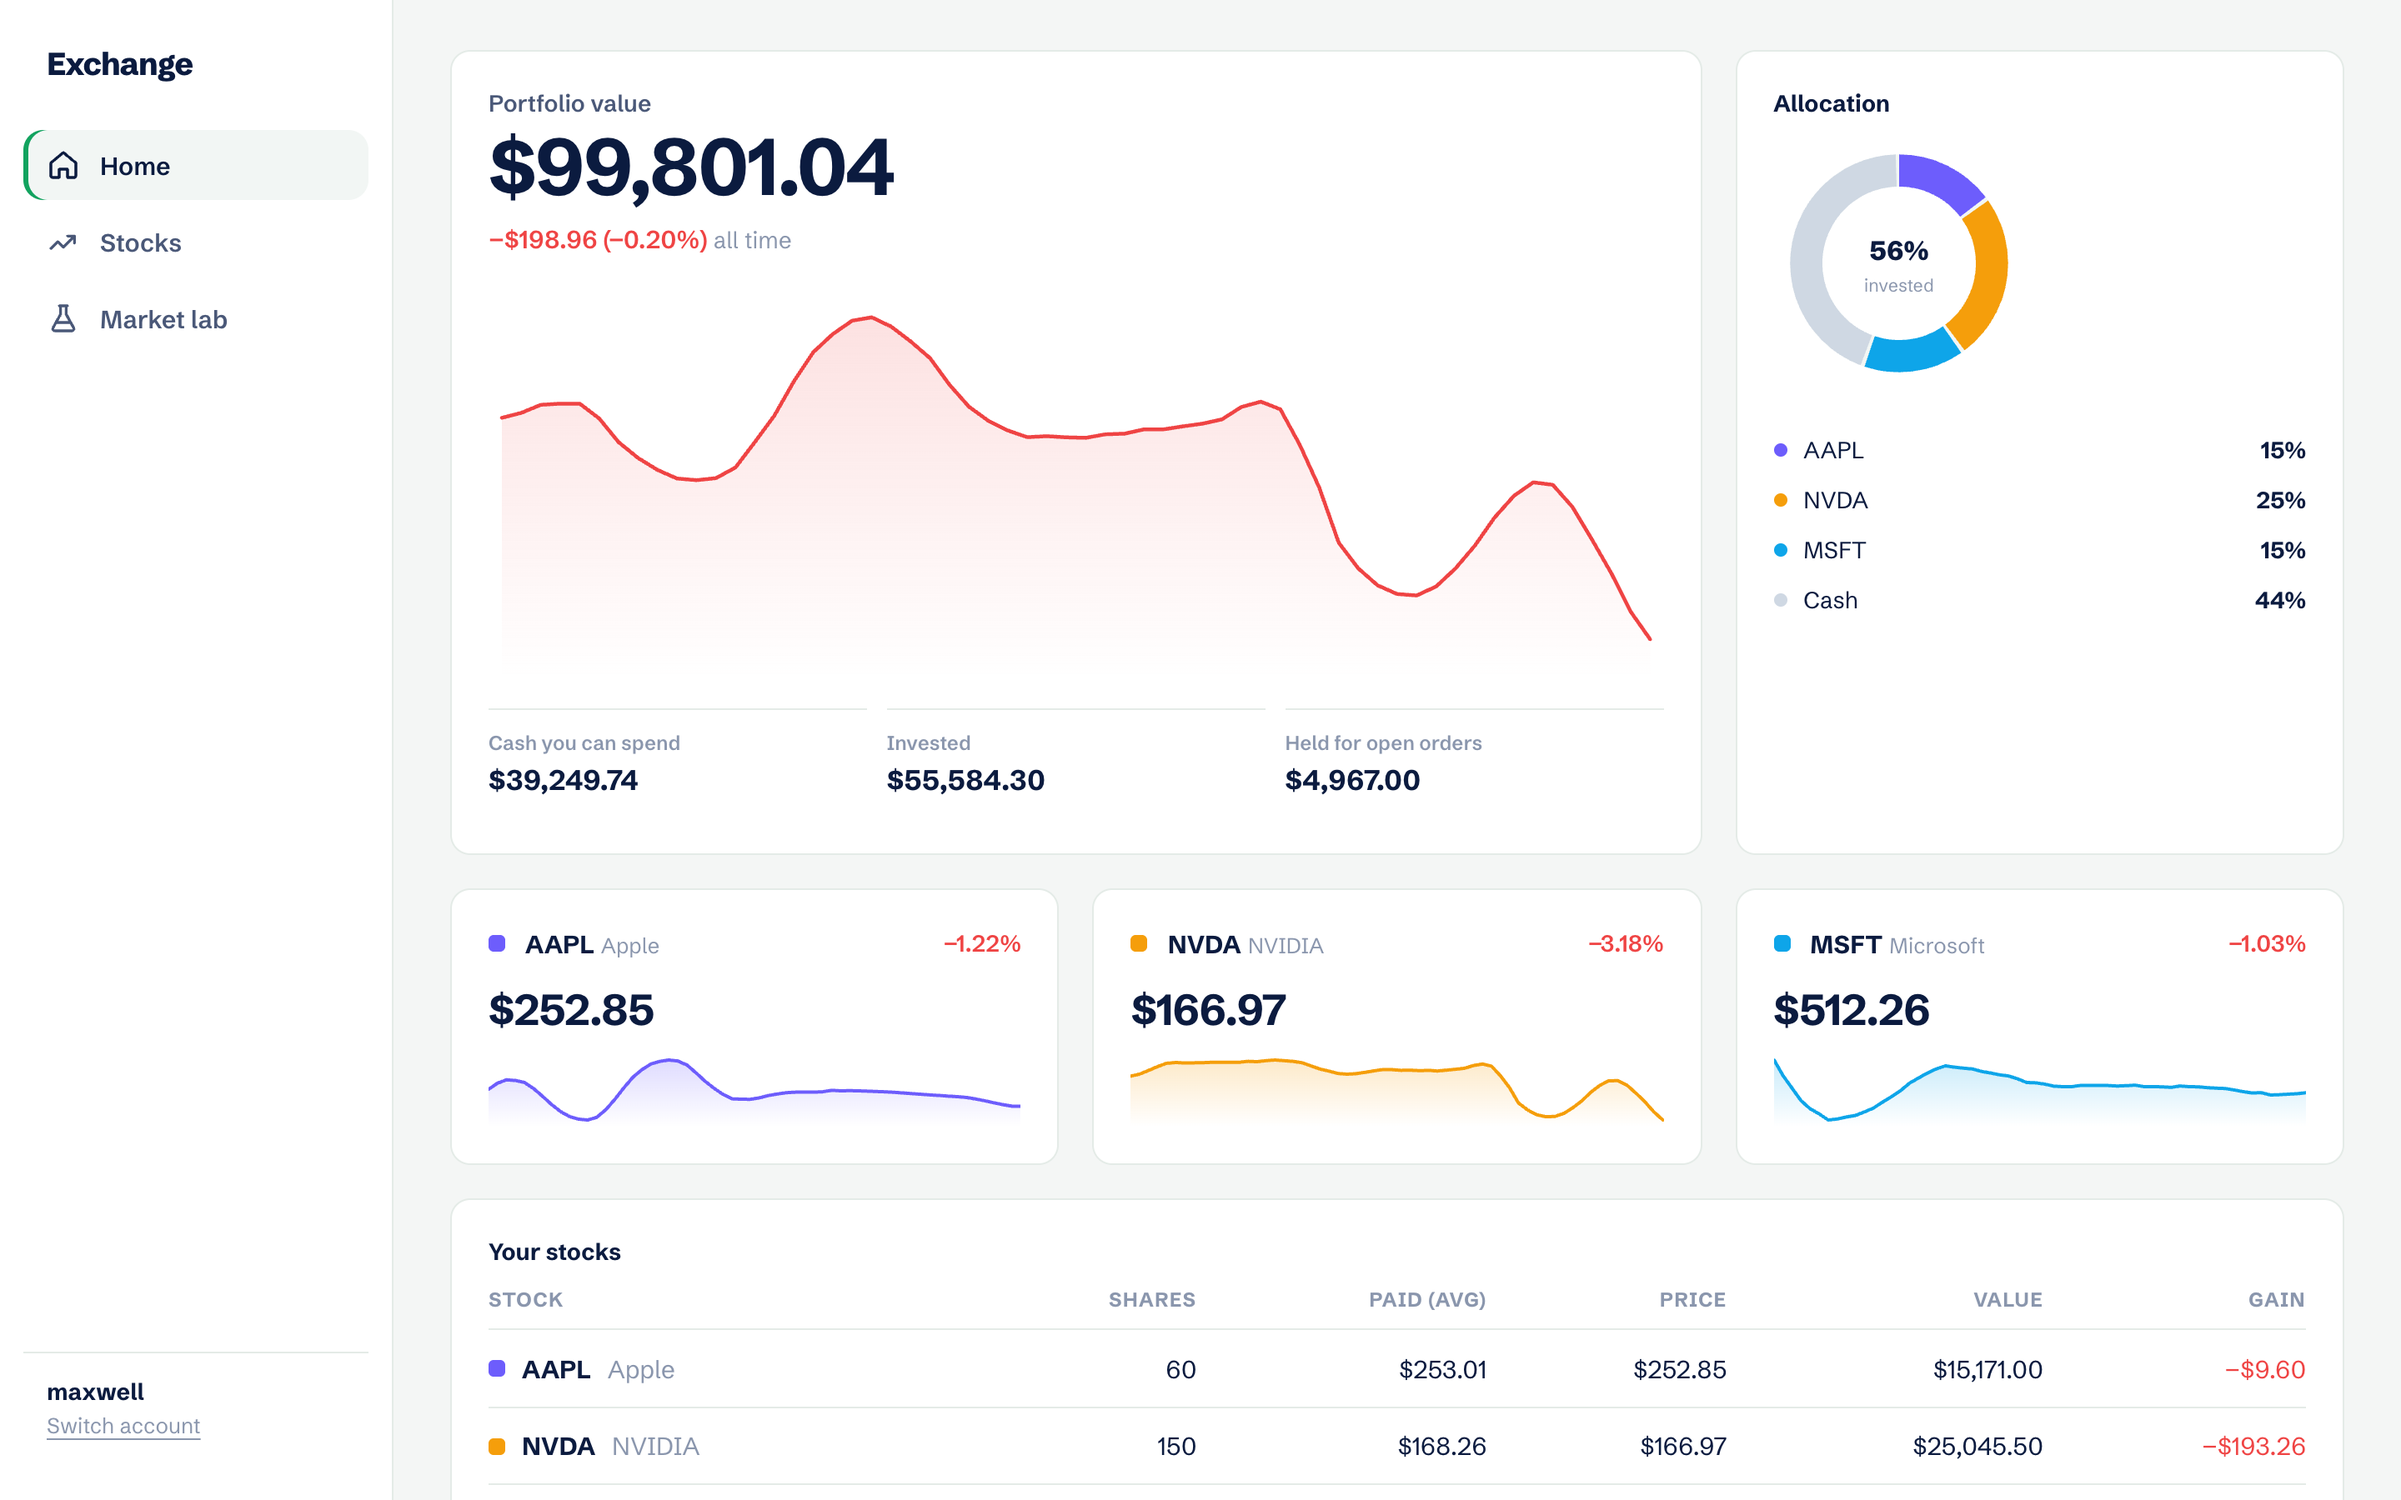
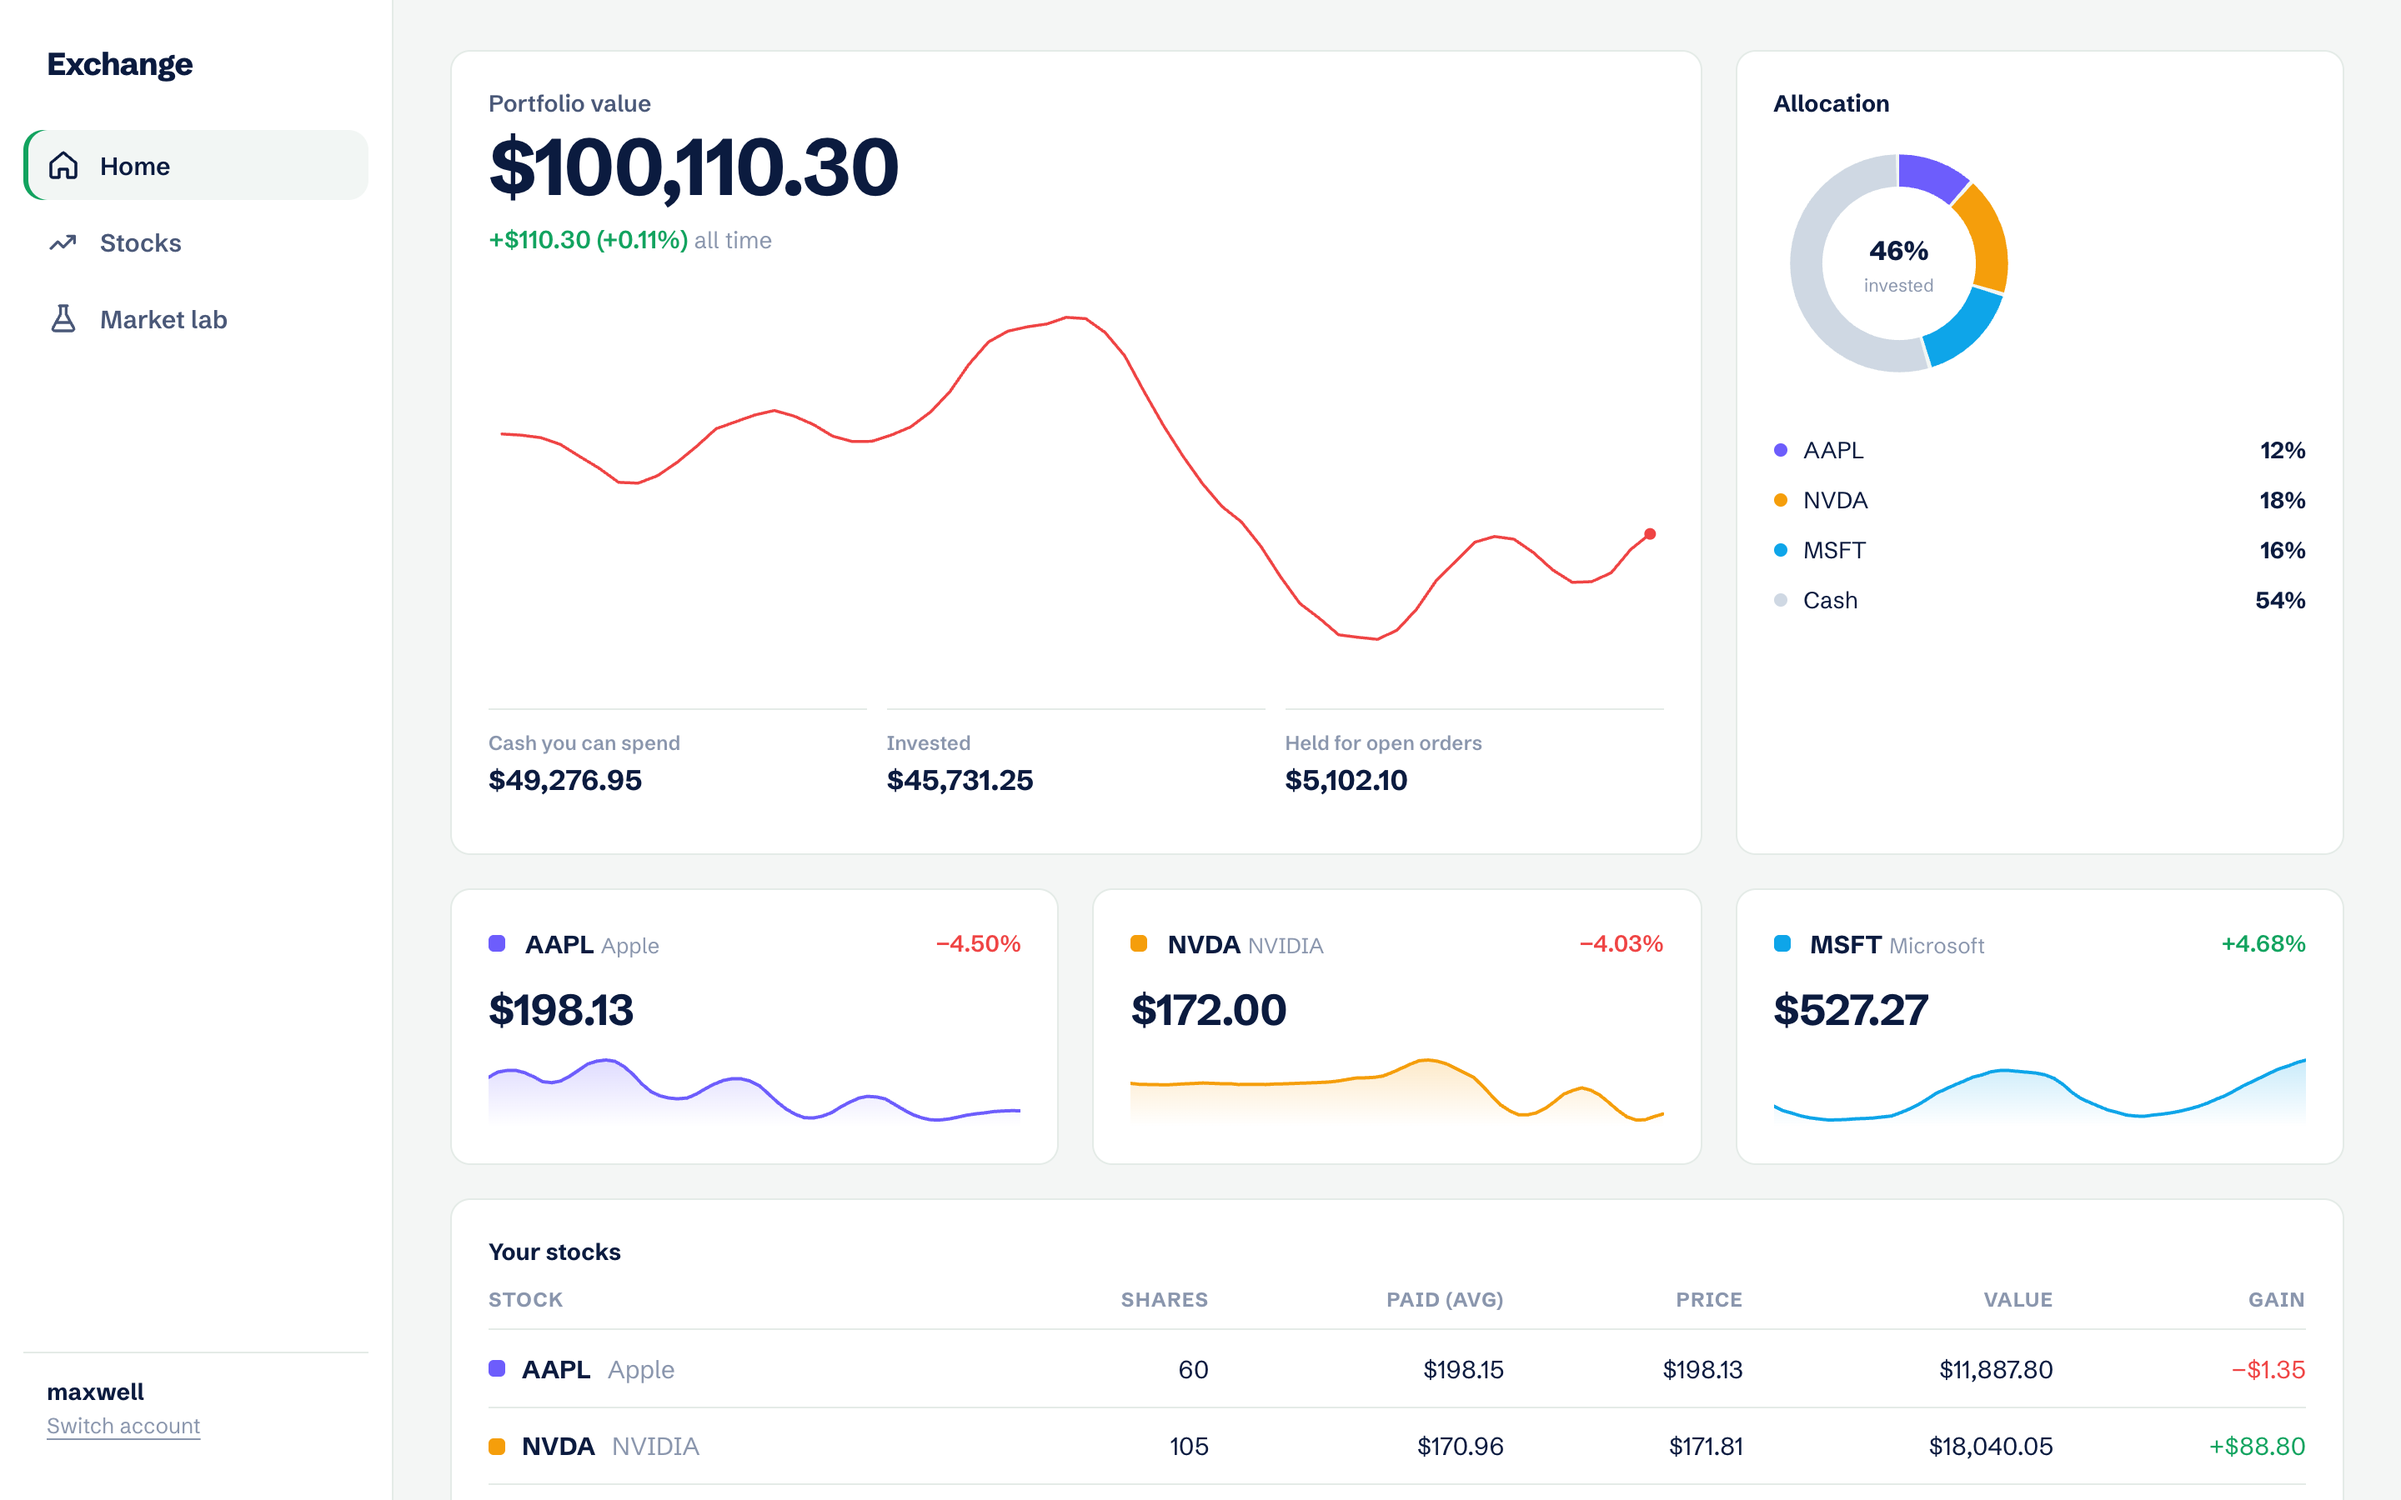
feat: Robinhood-style chart with ranges out to 5Y
Thin line with no fill, one point per second on LIVE, and range tabs
from LIVE to 5Y. The crosshair follows the cursor and reads the price
off the line between points, with a time label above it.

diff --git a/frontend/src/components/PriceChart.tsx b/frontend/src/components/PriceChart.tsx
@@ -1,4 +1,4 @@
-import { useEffect, useId, useRef, useState } from "react";
+import { useEffect, useRef, useState } from "react";
 
 export interface Point {
   t: number; // seconds
@@ -22,7 +22,12 @@ interface Props {
   baseline?: number;
   onScrub?: (p: Point | null) => void;
   markers?: Marker[];
+  /** Text for the label above the crosshair. */
+  formatTime?: (t: number) => string;
 }
+
+const clockTime = (t: number) =>
+  new Date(t * 1000).toLocaleTimeString([], { hour: "numeric", minute: "2-digit", second: "2-digit" });
 
 /**
  * A single-line price chart with hover scrubbing.
@@ -30,6 +35,9 @@ interface Props {
  * Written by hand rather than pulled from a charting library: it draws exactly
  * one thing, and doing it directly keeps the bundle small and the look clean
  * (no axes, gridlines, or legends the screen doesn't need).
+ *
+ * The crosshair follows the cursor exactly and reads the price off the line
+ * between points, so scrubbing glides instead of jumping from point to point.
  *
  * Measures its own width so strokes stay crisp instead of being stretched by a
  * scaled viewBox.
@@ -44,6 +52,21 @@ function thin(pts: Point[], max: number): Point[] {
   return out;
 }
 
+/** The line's value at time t, interpolated between the two nearest points. */
+function valueAt(pts: Point[], t: number): Point {
+  let lo = 0;
+  let hi = pts.length - 1;
+  while (hi - lo > 1) {
+    const mid = (lo + hi) >> 1;
+    if (pts[mid].t <= t) lo = mid;
+    else hi = mid;
+  }
+  const a = pts[lo];
+  const b = pts[hi];
+  const k = b.t > a.t ? Math.min(1, Math.max(0, (t - a.t) / (b.t - a.t))) : 0;
+  return { t, v: Math.round(a.v + (b.v - a.v) * k) };
+}
+
 export function PriceChart({
   series: rawSeries,
   reference: rawReference,
@@ -52,11 +75,11 @@ export function PriceChart({
   baseline,
   onScrub,
   markers,
+  formatTime = clockTime,
 }: Props) {
   const box = useRef<HTMLDivElement>(null);
   const [width, setWidth] = useState(600);
-  const [hover, setHover] = useState<number | null>(null);
-  const gradId = useId();
+  const [hover, setHover] = useState<number | null>(null); // a time, in seconds
 
   useEffect(() => {
     if (!box.current) return;
@@ -107,16 +130,13 @@ export function PriceChart({
   function scrub(clientX: number) {
     if (!box.current) return;
     const rx = clientX - box.current.getBoundingClientRect().left;
-    const t = t0 + ((rx - pad) / (width - pad * 2)) * tspan;
-    let best = 0;
-    for (let i = 1; i < series.length; i++) {
-      if (Math.abs(series[i].t - t) < Math.abs(series[best].t - t)) best = i;
-    }
-    setHover(best);
-    onScrub?.(series[best]);
+    const t = Math.min(t1, Math.max(t0, t0 + ((rx - pad) / (width - pad * 2)) * tspan));
+    setHover(t);
+    onScrub?.(valueAt(series, t));
   }
 
-  const hp = hover !== null ? series[hover] : null;
+  const hp = hover !== null ? valueAt(series, Math.min(t1, Math.max(t0, hover))) : null;
+  const end = series[series.length - 1];
 
   return (
     <div
@@ -129,16 +149,6 @@ export function PriceChart({
       }}
     >
       <svg width={width} height={height} style={{ display: "block", overflow: "visible" }}>
-        <defs>
-          <linearGradient id={gradId} x1="0" y1="0" x2="0" y2="1">
-            <stop offset="0%" style={{ stopColor: stroke, stopOpacity: 0.16 }} />
-            <stop offset="100%" style={{ stopColor: stroke, stopOpacity: 0 }} />
-          </linearGradient>
-        </defs>
-        <path
-          d={`${path(series)}L${x(series[series.length - 1].t).toFixed(1)},${height}L${x(series[0].t).toFixed(1)},${height}Z`}
-          fill={`url(#${CSS.escape(gradId)})`} stroke="none"
-        />
         {(markers ?? [])
           .filter((m) => m.t >= t0 && m.t <= t1)
           .map((m, i) => {
@@ -161,17 +171,24 @@ export function PriceChart({
           <path d={path(reference)} fill="none" stroke="var(--ink-3)"
                 strokeWidth={1.5} strokeDasharray="5 5" />
         )}
-        <path d={path(series)} fill="none" stroke={stroke} strokeWidth={2.25}
+        <path d={path(series)} fill="none" stroke={stroke} strokeWidth={1.75}
               strokeLinejoin="round" strokeLinecap="round" />
-        {hp && (
+        {hp ? (
           <>
             <line x1={x(hp.t)} x2={x(hp.t)} y1={0} y2={height}
                   stroke="var(--ink-3)" strokeWidth={1} />
             <circle cx={x(hp.t)} cy={y(hp.v)} r={5} fill={stroke}
-                    stroke="var(--bg)" strokeWidth={2.5} />
+                    stroke="var(--card)" strokeWidth={2} />
           </>
+        ) : (
+          <circle cx={x(end.t)} cy={y(end.v)} r={3.5} fill={stroke} />
         )}
       </svg>
+      {hp && (
+        <div className="chart-time num" style={{ left: Math.min(width - 60, Math.max(60, x(hp.t))) }}>
+          {formatTime(hp.t)}
+        </div>
+      )}
     </div>
   );
 }

diff --git a/frontend/src/views/StockView.tsx b/frontend/src/views/StockView.tsx
@@ -7,13 +7,32 @@ import { money, pct, signed, tone } from "../format";
 import { stockColor, stockName } from "../symbols";
 import type { Book, MarketEvent, Money, Portfolio, Side } from "../types";
 
+// Up to 1H is real trading once the market has been open that long. Further
+// back, the chart runs on the made-up history that leads into it.
 const RANGES = {
-  "1M": { seconds: 2, limit: 30, label: "past minute" },
-  "5M": { seconds: 5, limit: 60, label: "past 5 minutes" },
-  "15M": { seconds: 15, limit: 60, label: "past 15 minutes" },
-  "1H": { seconds: 60, limit: 60, label: "past hour" },
+  LIVE: { seconds: 1, limit: 300, label: "past 5 minutes" },
+  "1H": { seconds: 15, limit: 240, label: "past hour" },
+  "1D": { seconds: 300, limit: 288, label: "past day" },
+  "1W": { seconds: 3600, limit: 168, label: "past week" },
+  "1M": { seconds: 7200, limit: 360, label: "past month" },
+  "3M": { seconds: 21600, limit: 360, label: "past 3 months" },
+  "1Y": { seconds: 86400, limit: 365, label: "past year" },
+  "5Y": { seconds: 604800, limit: 261, label: "past 5 years" },
 } as const;
 type Range = keyof typeof RANGES;
+
+/** How to label a moment on the chart, finer for shorter ranges. */
+function stamp(t: number, range: Range): string {
+  const d = new Date(t * 1000);
+  if (range === "LIVE" || range === "1H") {
+    return d.toLocaleTimeString([], { hour: "numeric", minute: "2-digit", second: "2-digit" });
+  }
+  if (range === "1D") return d.toLocaleTimeString([], { hour: "numeric", minute: "2-digit" });
+  if (range === "1W" || range === "1M") {
+    return d.toLocaleString([], { month: "short", day: "numeric", hour: "numeric", minute: "2-digit" });
+  }
+  return d.toLocaleDateString([], { month: "short", day: "numeric", year: "numeric" }).toUpperCase();
+}
 
 interface Props {
   symbol: string;
@@ -27,7 +46,7 @@ interface Props {
 }
 
 export function StockView({ symbol, symbols, onSymbol, last, book, portfolio, onTrade, events }: Props) {
-  const [range, setRange] = useState<Range>("5M");
+  const [range, setRange] = useState<Range>("LIVE");
   const [series, setSeries] = useState<Point[]>([]);
   const [scrub, setScrub] = useState<Point | null>(null);
 
@@ -40,7 +59,7 @@ export function StockView({ symbol, symbols, onSymbol, last, book, portfolio, on
         .catch(() => undefined);
     setSeries([]);
     load();
-    const id = setInterval(load, range === "1M" ? 2000 : 3000);
+    const id = setInterval(load, range === "LIVE" ? 1000 : range === "1H" ? 3000 : 15000);
     return () => {
       alive = false;
       clearInterval(id);
@@ -82,7 +101,7 @@ export function StockView({ symbol, symbols, onSymbol, last, book, portfolio, on
               <>
                 {delta >= 0 ? "▲" : "▼"} {signed(delta).replace(/^[+−]/, "")} ({pct((delta / start) * 100)})
                 <span className="muted" style={{ fontWeight: 500 }}>
-                  {" "}{scrub ? new Date(scrub.t * 1000).toLocaleTimeString([], { hour: "numeric", minute: "2-digit", second: "2-digit" }) : RANGES[range].label}
+                  {" "}{scrub ? stamp(scrub.t, range) : RANGES[range].label}
                 </span>
               </>
             )}
@@ -90,12 +109,15 @@ export function StockView({ symbol, symbols, onSymbol, last, book, portfolio, on
           {fresh && <div style={{ marginTop: 16 }}><Headline event={fresh} /></div>}
           <div className="chart-wrap">
             <PriceChart series={line} baseline={start} onScrub={setScrub} height={360}
-                        markers={news.map((e) => ({ t: e.t, tone: e.kind === "good" ? "up" : "down" }))} />
+                        formatTime={(t) => stamp(t, range)}
+                        markers={range === "LIVE" || range === "1H"
+                          ? news.map((e) => ({ t: e.t, tone: e.kind === "good" ? "up" : "down" }))
+                          : undefined} />
           </div>
           <div className="ranges">
-            <div className="seg">
+            <div className="range-tabs">
               {(Object.keys(RANGES) as Range[]).map((r) => (
-                <button key={r} className={r === range ? "on" : ""} onClick={() => setRange(r)}>{r}</button>
+                <button key={r} className={r === range ? `on ${tone(delta) || "up"}` : ""} onClick={() => setRange(r)}>{r}</button>
               ))}
             </div>
             {book?.best_bid && book.best_ask && (

diff --git a/frontend/src/index.css b/frontend/src/index.css
@@ -155,7 +155,14 @@ input { font: inherit; }
 .chip.on { border-color: var(--ink); box-shadow: inset 0 0 0 1px var(--ink); }
 .price-big { font-size: 48px; font-weight: 700; letter-spacing: -0.03em; line-height: 1; }
 .change { font-size: 15px; font-weight: 600; margin-top: 10px; min-height: 20px; }
-.chart-wrap { margin: 18px -4px 8px; }
+.chart-wrap { margin: 26px -4px 8px; }
+.chart-time { position: absolute; top: -18px; transform: translateX(-50%); font-size: 12px; font-weight: 600; color: var(--ink-3); white-space: nowrap; pointer-events: none; }
+.range-tabs { display: flex; gap: 18px; flex-wrap: wrap; }
+.range-tabs button { background: none; border: 0; border-bottom: 2px solid transparent; padding: 6px 0; font: inherit; font-size: 13px; font-weight: 700; color: var(--ink-2); cursor: pointer; }
+.range-tabs button:hover { color: var(--ink); }
+.range-tabs button.on { border-bottom-color: currentColor; }
+.range-tabs button.on.up { color: var(--up); }
+.range-tabs button.on.down { color: var(--down); }
 .ranges { display: flex; justify-content: space-between; align-items: center; gap: 10px; flex-wrap: wrap; margin-bottom: 20px; }
 .actions { display: grid; grid-template-columns: 1fr 1fr; gap: 12px; }
 .kv { display: flex; justify-content: space-between; padding: 8px 0; font-size: 14px; border-bottom: 1px solid var(--line); }
